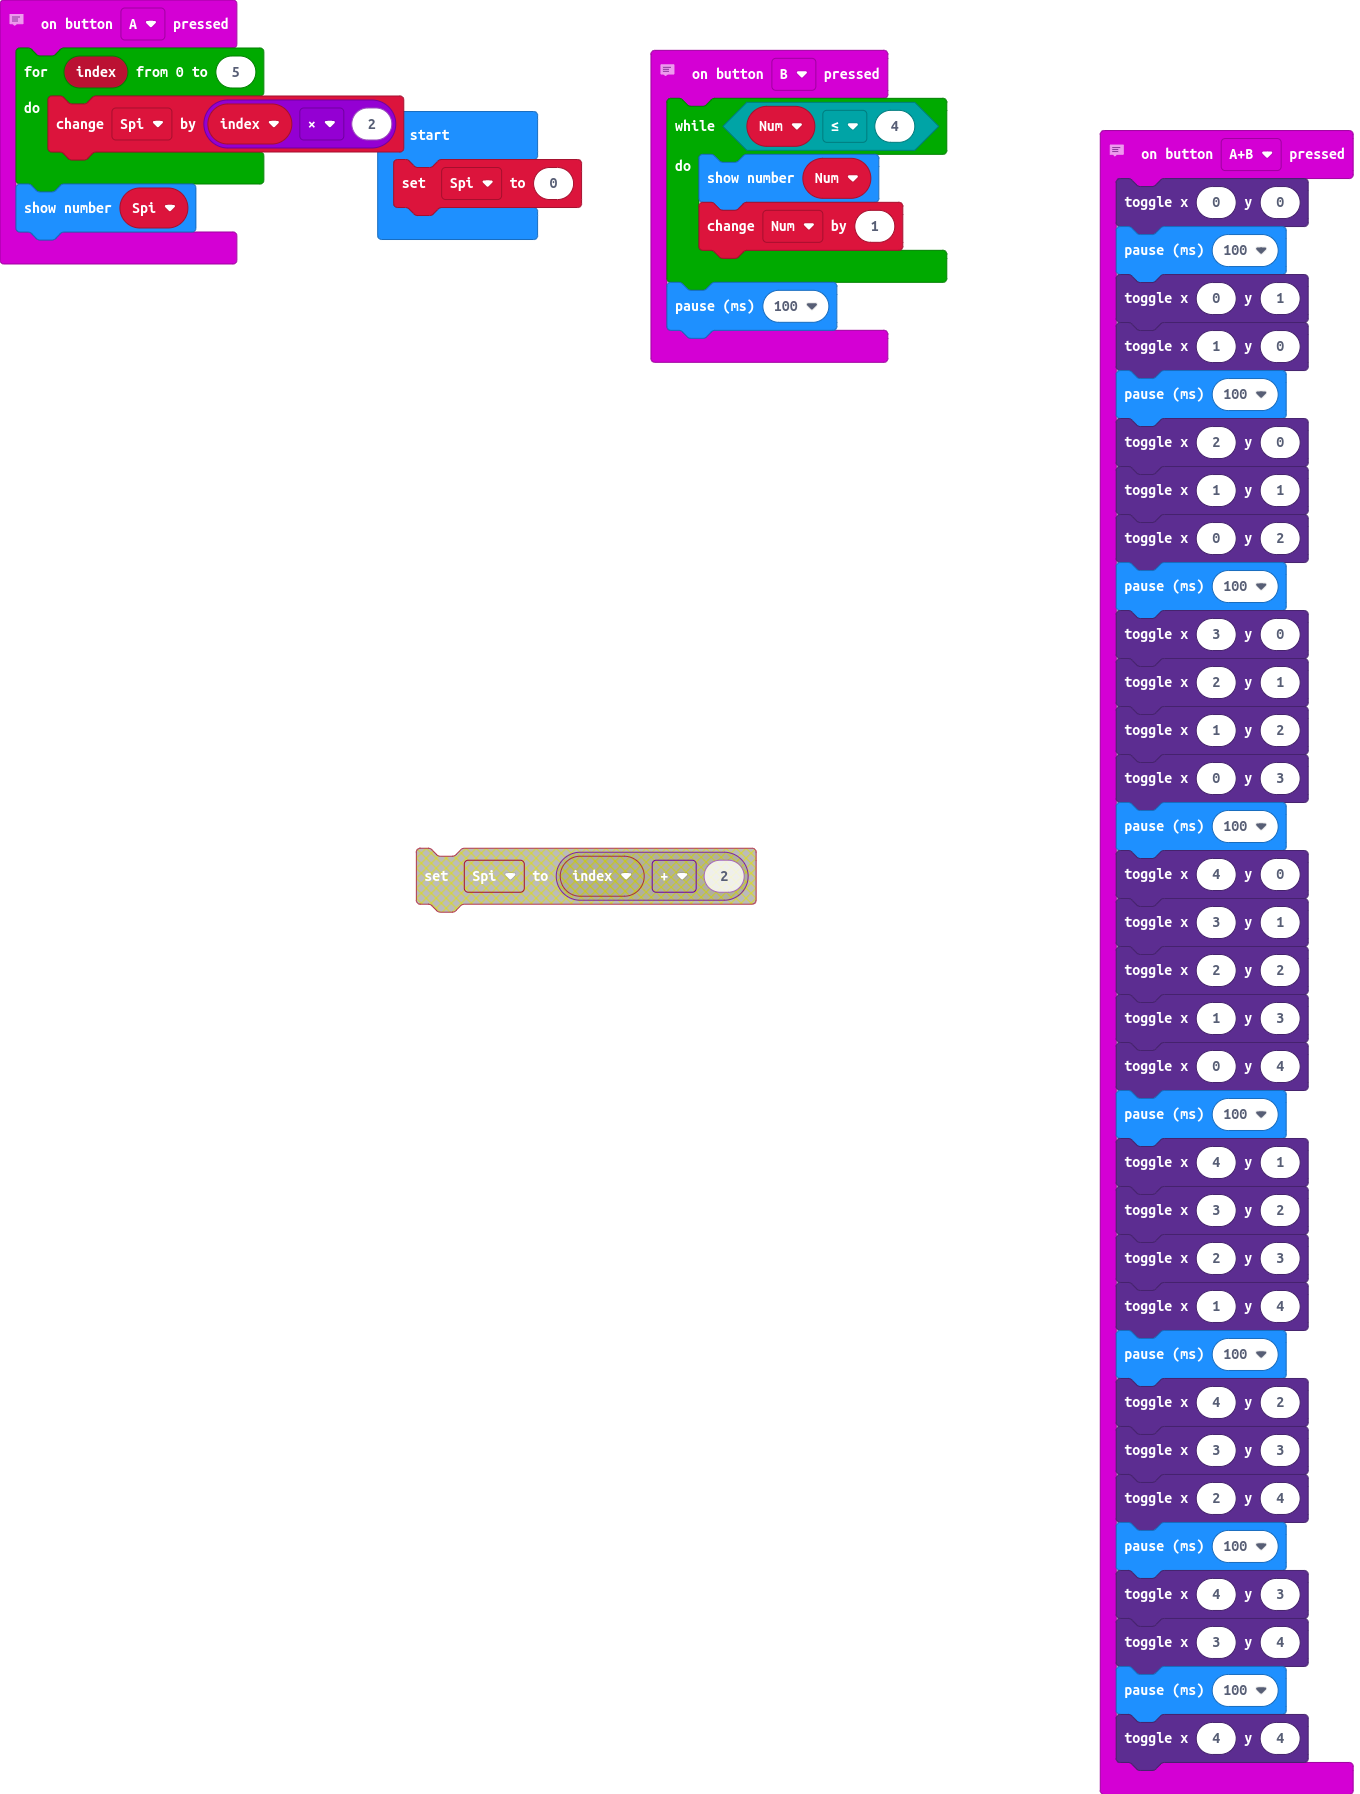
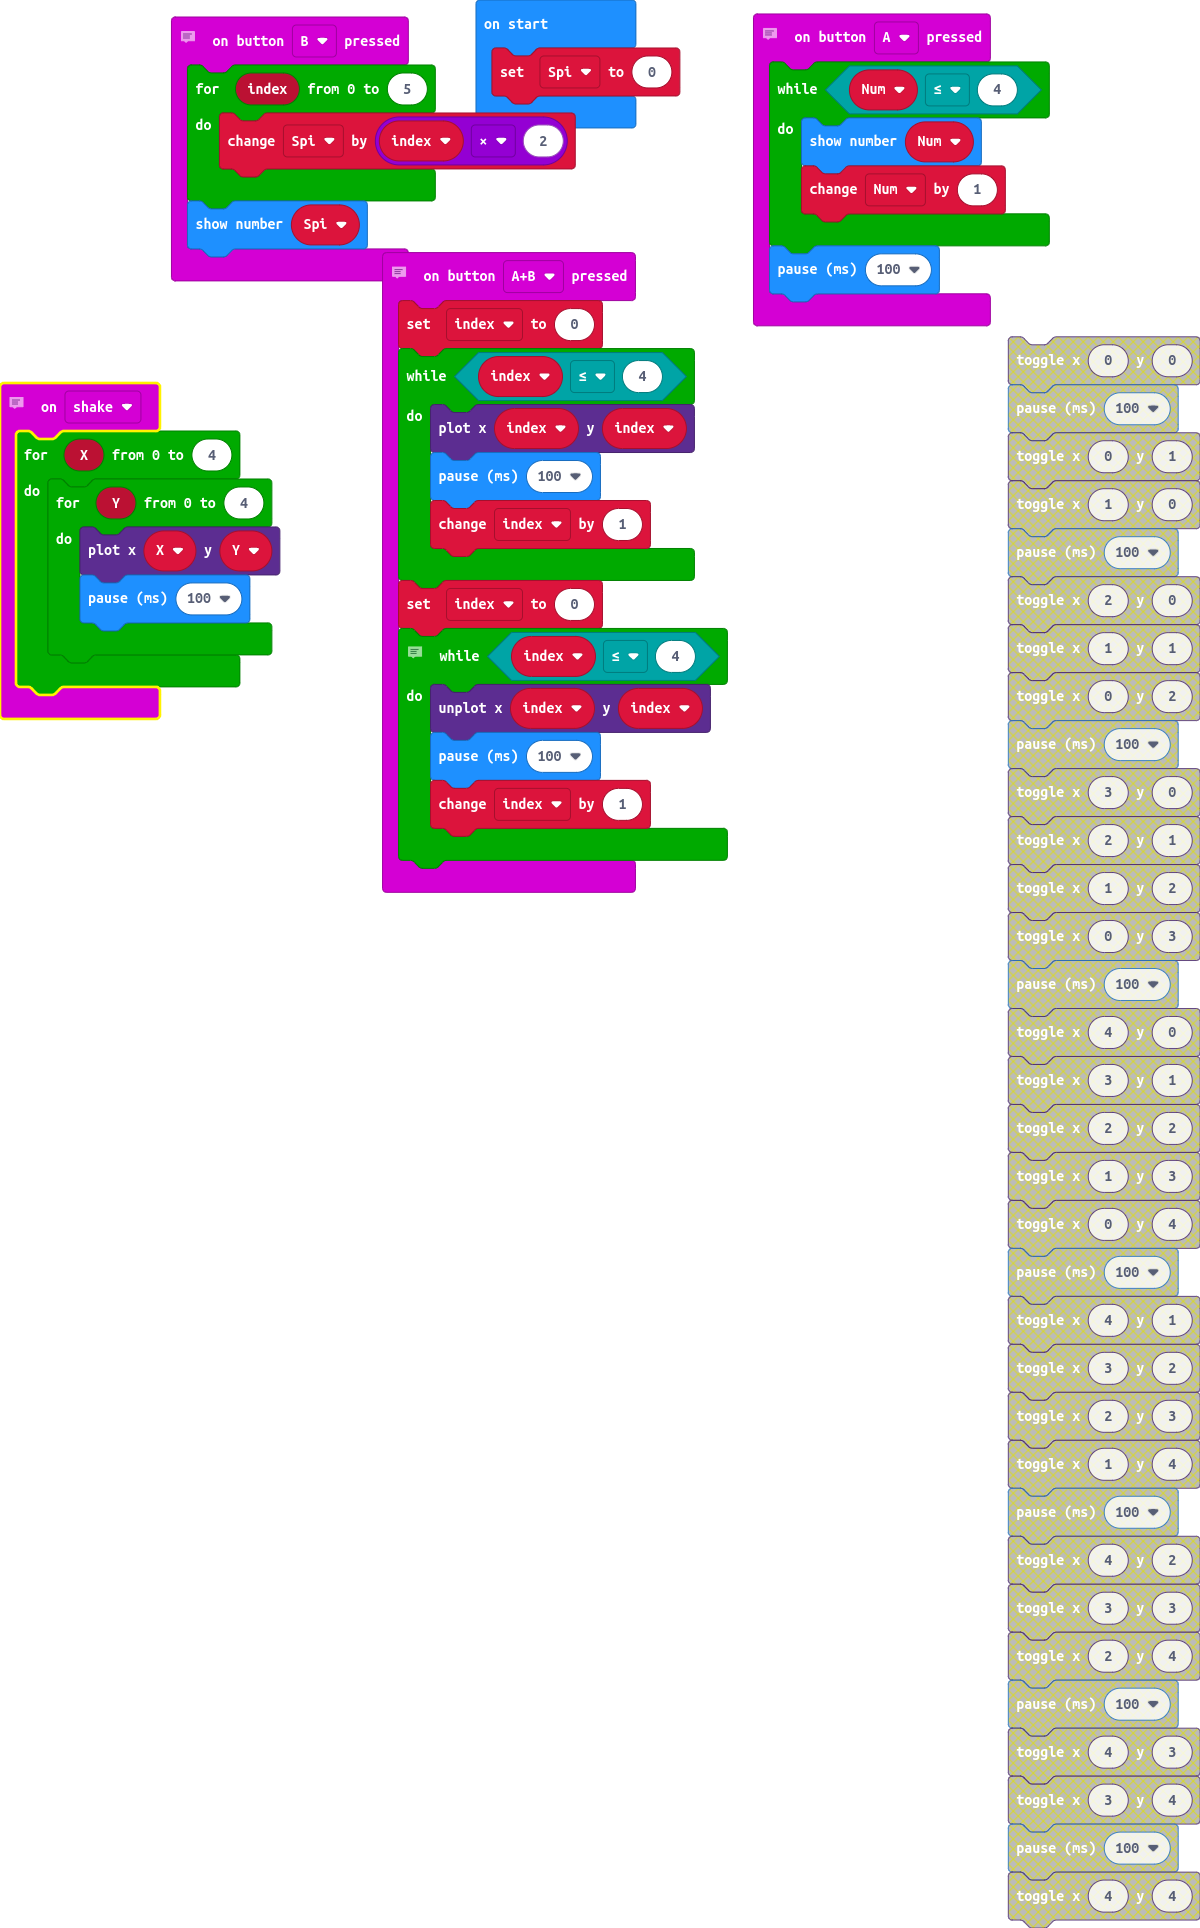
Update main.blocks, main.ts

diff --git a/main.ts b/main.ts
@@ -1,69 +1,71 @@
-// 1 Index=0    Spi= 2 x index+Spi(old)= 2x0+0=0
-// 2 index=1    Spi= 2 x index+Spi(old)= 2x1+0=2
-// 3 Index=2   Spi= 2 x index+Spi(old)= 2x2+2=6
-// 4 index=3   Spi= 2 x index+Spi(old)= 2x3+8=12
-// 5 index=4   Spi= 2 x index+Spi(old)= 2x4+12=20
-// 6 index=5   Spi= 2 x index+Spi(old)= 2x5+20=30
+// 1  Num=Num(old) +1= 0+1=1
+// 2  Num= Num(old)+1= 1+1=2
+// 3  Num= Num(old)+1= 2+2=4
+// 4  Num= Num(old)+1= 3+4=7
+// 5  Num= Num(old)+1= 4+7=11
+// 6  Num= Num(old)+1= 5+11=16
 input.onButtonPressed(Button.A, function () {
-    for (let index = 0; index <= 5; index++) {
-        Spi += index * 2
-    }
-    basic.showNumber(Spi)
-})
-// 1  Num=Num(old) +1= 0+1=1
-// 2  Num= Num(old)+1= 1+1=2
-// 3  Num= Num(old)+1= 2+2=4
-// 4  Num= Num(old)+1= 3+4=7
-// 5  Num= Num(old)+1= 4+7=11
-// 6  Num= Num(old)+1= 5+11=16
-input.onButtonPressed(Button.AB, function () {
-    led.toggle(0, 0)
-    basic.pause(100)
-    led.toggle(0, 1)
-    led.toggle(1, 0)
-    basic.pause(100)
-    led.toggle(2, 0)
-    led.toggle(1, 1)
-    led.toggle(0, 2)
-    basic.pause(100)
-    led.toggle(3, 0)
-    led.toggle(2, 1)
-    led.toggle(1, 2)
-    led.toggle(0, 3)
-    basic.pause(100)
-    led.toggle(4, 0)
-    led.toggle(3, 1)
-    led.toggle(2, 2)
-    led.toggle(1, 3)
-    led.toggle(0, 4)
-    basic.pause(100)
-    led.toggle(4, 1)
-    led.toggle(3, 2)
-    led.toggle(2, 3)
-    led.toggle(1, 4)
-    basic.pause(100)
-    led.toggle(4, 2)
-    led.toggle(3, 3)
-    led.toggle(2, 4)
-    basic.pause(100)
-    led.toggle(4, 3)
-    led.toggle(3, 4)
-    basic.pause(100)
-    led.toggle(4, 4)
-})
-// 1  Num=Num(old) +1= 0+1=1
-// 2  Num= Num(old)+1= 1+1=2
-// 3  Num= Num(old)+1= 2+2=4
-// 4  Num= Num(old)+1= 3+4=7
-// 5  Num= Num(old)+1= 4+7=11
-// 6  Num= Num(old)+1= 5+11=16
-input.onButtonPressed(Button.B, function () {
     while (Num <= 4) {
         basic.showNumber(Num)
         Num += 1
     }
     basic.pause(100)
 })
+// index=0 plot 0.0
+// index=1 plot 1.1
+// index=2 plot 2.2
+// index=3 plot 3.3
+// index=4 plot 4.4
+input.onButtonPressed(Button.AB, function () {
+    index = 0
+    while (index <= 4) {
+        led.plot(index, index)
+        basic.pause(100)
+        index += 1
+    }
+    index = 0
+    // index value= 5
+    while (index <= 4) {
+        led.unplot(index, index)
+        basic.pause(100)
+        index += 1
+    }
+})
+// 1 Index=0    Spi= 2 x index+Spi(old)= 2x0+0=0
+// 2 index=1    Spi= 2 x index+Spi(old)= 2x1+0=2
+// 3 Index=2   Spi= 2 x index+Spi(old)= 2x2+2=6
+// 4 index=3   Spi= 2 x index+Spi(old)= 2x3+8=12
+// 5 index=4   Spi= 2 x index+Spi(old)= 2x4+12=20
+// 6 index=5   Spi= 2 x index+Spi(old)= 2x5+20=30
+input.onButtonPressed(Button.B, function () {
+    for (let index = 0; index <= 5; index++) {
+        Spi += index * 2
+    }
+    basic.showNumber(Spi)
+})
+// plot (x,y)
+// plot (0,0)
+// plot (0,1)
+// plot (0,2)
+// plot (0,3)
+// plot (0,4)
+// plot (1,0)
+// plot (1,1)
+// plot (1,2)
+// plot (1,3)
+// plot (1,4)
+// plot (2,0)
+// plot (2,1)
+// .....
+input.onGesture(Gesture.Shake, function () {
+    for (let X = 0; X <= 4; X++) {
+        for (let Y = 0; Y <= 4; Y++) {
+            led.plot(X, Y)
+            basic.pause(100)
+        }
+    }
+})
+let index = 0
 let Num = 0
 let Spi = 0
 Spi = 0
